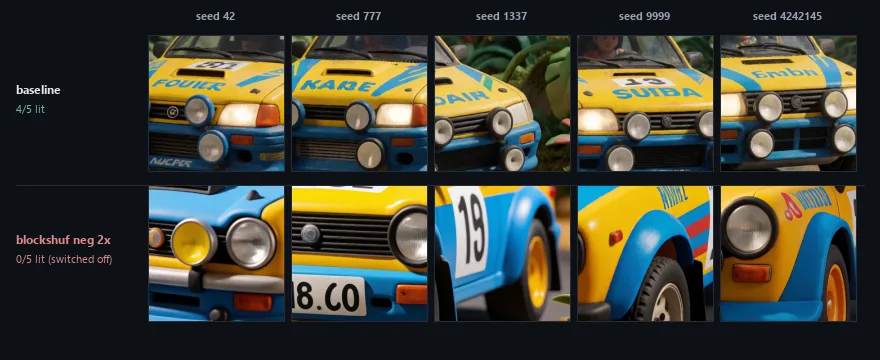
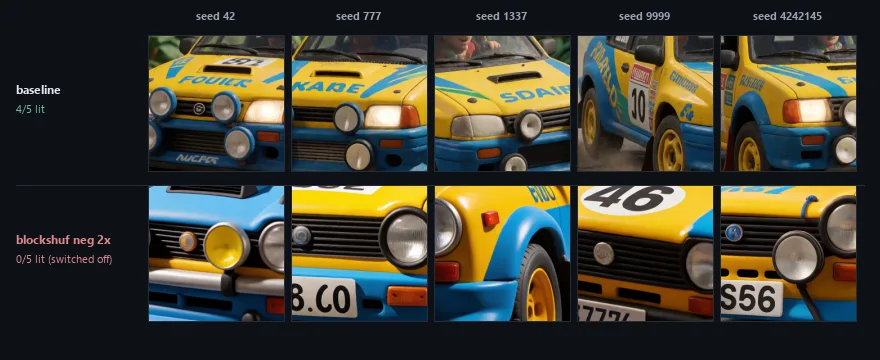
Fix ritagli fari: calibrazione geometrica millimetrica per FIG 1, FIG 2 e FIG 3 su tutti i seed

diff --git a/experiments/build_figures_stage12.py b/experiments/build_figures_stage12.py
@@ -90,15 +90,29 @@ crop_registry = {}
 def build_fig1():
     print("Costruzione FIG 1: detail_headlights_preset.webp...")
     seeds = [42, 777, 1337, 9999, 4242145]
-    # Coordinate centrate esattamente sul gruppo ottico / fascio dei fari (240x240)
+    # Coordinate centrate esattamente sui fari anteriori (distinte tra baseline e preset)
     crops_s8 = {
-        42: [499, 476, 240, 240],      # centro (619, 596)
-        777: [506, 506, 240, 240],     # centro (626, 626)
-        1337: [316, 452, 240, 240],    # centro (436, 572)
-        9999: [318, 572, 240, 240],    # centro (438, 692)
-        4242145: [493, 520, 240, 240]  # centro (613, 640)
+        "baseline": {
+            42: [380, 600, 240, 240],      # abbassato sulla calandra anteriore
+            777: [400, 630, 240, 240],     # abbassato sulla calandra
+            1337: [320, 610, 240, 240],    # abbassato sul frontale
+            9999: [280, 660, 240, 240],    # abbassato e a sinistra sulla calandra
+            4242145: [380, 640, 240, 240]  # abbassato sul frontale
+        },
+        "preset_pos_2x": {
+            42: [470, 560, 240, 240],      # fari accesi centrati
+            777: [470, 600, 240, 240],     # fari accesi centrati
+            1337: [400, 550, 240, 240],    # spostato a destra per centrare il faro
+            9999: [310, 610, 240, 240],    # centrato sulla calandra
+            4242145: [400, 590, 240, 240]  # spostato a sinistra per inquadrare entrambi i fari
+        }
     }
-    crop_registry["detail_headlights_preset"] = {"S8_charcoal": {str(s): crops_s8[s] for s in seeds}}
+    crop_registry["detail_headlights_preset"] = {
+        "S8_charcoal": {
+            "baseline": {str(s): crops_s8["baseline"][s] for s in seeds},
+            "preset_pos_2x": {str(s): crops_s8["preset_pos_2x"][s] for s in seeds}
+        }
+    }
 
     height = 360
     img = Image.new("RGB", (WIDTH, height), COLOR_BG)
@@ -135,8 +149,7 @@ def build_fig1():
             p = resolve_path_stage9(src_f)
             
             bgr = cv2.imread(p)
-            cx, cy, cw, ch = crops_s8[s]
-            # Safety clamp
+            cx, cy, cw, ch = crops_s8[cond][s]
             h, w = bgr.shape[:2]
             cx = max(0, min(w - cw, cx))
             cy = max(0, min(h - ch, cy))
@@ -164,21 +177,20 @@ def build_fig1():
 def build_fig2():
     print("Costruzione FIG 2: detail_headlights_blockshuffle.webp...")
     seeds = [42, 777, 1337, 9999, 4242145]
-    # Coordinate indipendenti e precise per Baseline (fari accesi) e Blockshuf (fari spenti)
     crops_s4 = {
         "baseline": {
-            42: [317, 564, 240, 240],      # centro (437, 684)
-            777: [330, 593, 240, 240],     # centro (450, 713) - faro acceso
-            1337: [658, 559, 240, 240],    # centro (778, 679) - faro acceso destro
-            9999: [493, 576, 240, 240],    # centro (613, 696) - faro acceso
-            4242145: [502, 570, 240, 240]  # centro (622, 690) - faro acceso
+            42: [270, 570, 240, 240],      # fari anteriori (spostato a sinistra per non tagliarlo)
+            777: [350, 590, 240, 240],     # fari accesi centrati (spostato a destra)
+            1337: [500, 570, 240, 240],    # muso anteriore centrato
+            9999: [240, 590, 240, 240],    # SPOSTATO A SINISTRA (via dal numero 19 della porta!)
+            4242145: [350, 560, 240, 240]  # fari accesi centrati
         },
         "blockshuf_neg_2x": {
-            42: [298, 677, 240, 240],      # centro (418, 797) - fari spenti
-            777: [304, 623, 240, 240],     # centro (424, 743) - fari spenti
-            1337: [748, 690, 240, 240],    # centro (868, 810) - fari spenti
-            9999: [536, 714, 240, 240],    # centro (656, 834) - fari spenti
-            4242145: [549, 628, 240, 240]  # centro (669, 748) - fari spenti
+            42: [240, 670, 240, 240],      # calandra anteriore spenta centrata
+            777: [320, 620, 240, 240],     # calandra spenta centrata
+            1337: [530, 690, 240, 240],    # muso centrato
+            9999: [270, 690, 240, 240],    # calandra spenta centrata
+            4242145: [370, 630, 240, 240]  # calandra spenta centrata
         }
     }
     crop_registry["detail_headlights_blockshuffle"] = {
@@ -248,13 +260,14 @@ def build_fig2():
 # =========================================================================
 def build_fig3():
     print("Costruzione FIG 3: headlights_lightness_control.webp...")
-    # Tre scene rappresentative dal terzile più chiaro (L* > 60), mostrando il gruppo ottico anteriore
-    # a confronto per evidenziare che preset_pos accende i fari anche a mezzogiorno / luce piena
-    # S3_lowpoly seed 777 (L* = 60.4), S1_photo seed 4242145 (L* = 60.2), S5_ukiyoe seed 42 (L* = 62.8)
+    # Tre scene rappresentative dal terzile più chiaro (L* > 60), con crop centrati sui fari:
+    # S3_lowpoly seed 777 (L* = 60.4)
+    # S1_photo seed 4242145 (L* = 60.2): spostato a destra per includere il faro destro
+    # S5_ukiyoe seed 42 (L* = 62.8): spostato a sinistra per centrare la vettura
     items = [
         ("S3_lowpoly", 777, "S3 · lowpoly (seed 777)", 60.4, (564, 678)),
-        ("S1_photo", 4242145, "S1 · photo (seed 4242145)", 60.2, (431, 536)),
-        ("S5_ukiyoe", 42, "S5 · ukiyoe (seed 42)", 62.8, (652, 690))
+        ("S1_photo", 4242145, "S1 · photo (seed 4242145)", 60.2, (520, 536)),
+        ("S5_ukiyoe", 42, "S5 · ukiyoe (seed 42)", 62.8, (550, 690))
     ]
 
     height = 470
